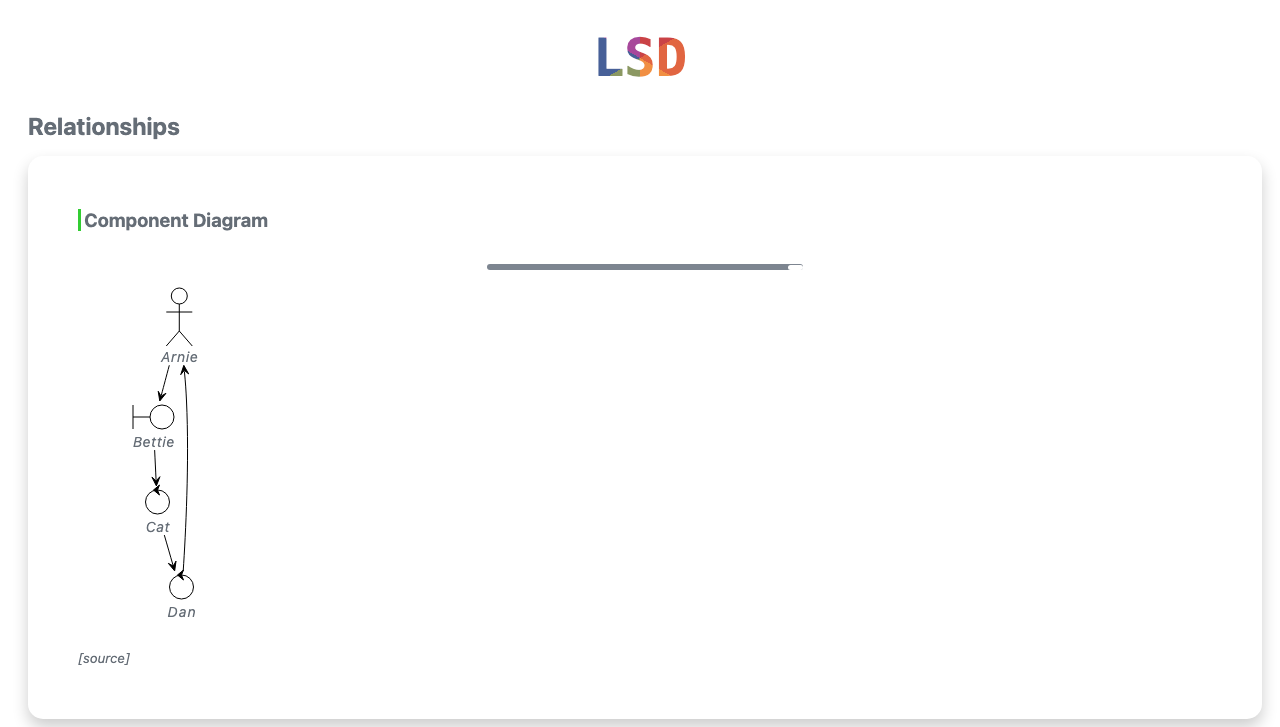
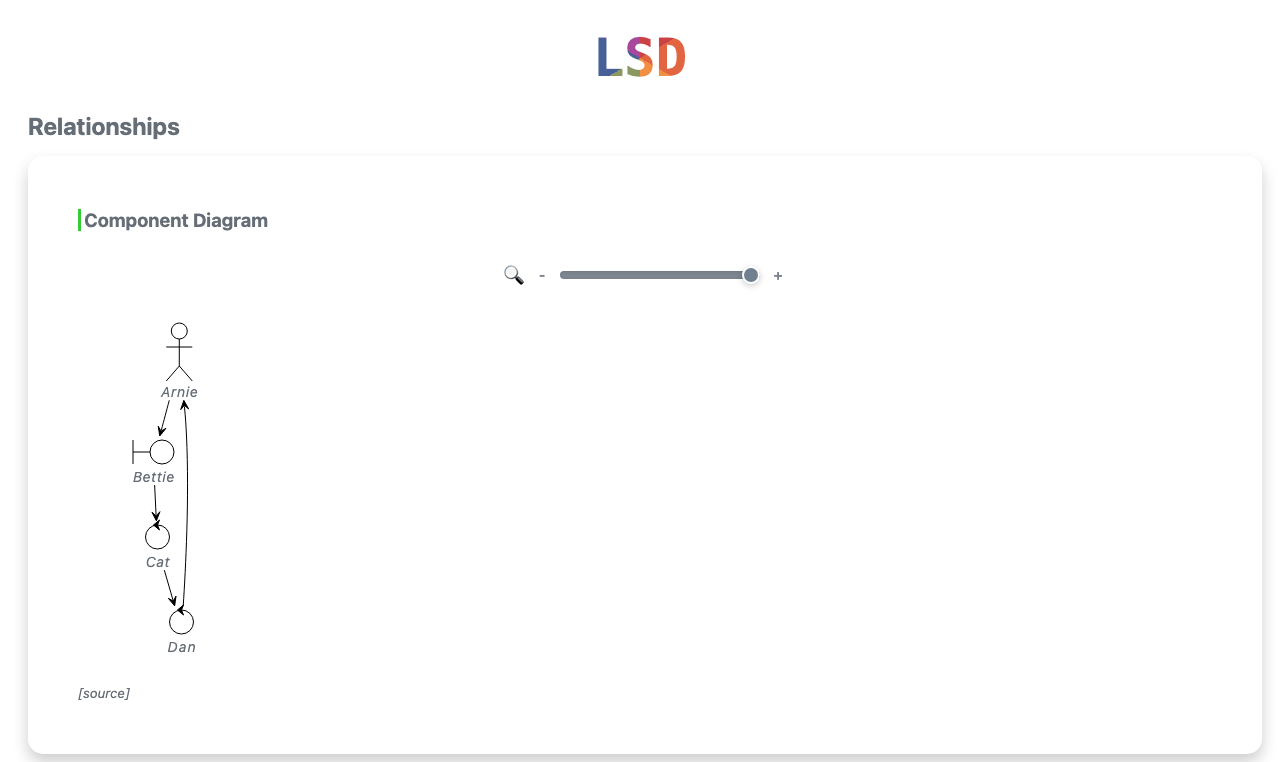
fix: tidy up zoom / slider bar

diff --git a/src/test/java/com/lsd/core/report/approval/LsdContextTest.createsReportWithScenariosInDevMode.approved.html b/src/test/java/com/lsd/core/report/approval/LsdContextTest.createsReportWithScenariosInDevMode.approved.html
@@ -435,39 +435,108 @@ label.index {
     background-color: #f1f1f1
 }
 
+/* Zoom control container */
+.zoom-control {
+    display: flex;
+    align-items: center;
+    justify-content: center;
+    gap: 10px;
+    margin-top: 20px;
+    margin-bottom: 10px;
+    margin-left: auto;
+    margin-right: auto;
+    padding: 10px 15px;
+    width: fit-content;
+}
+
+.zoom-label {
+    font-size: 16px;
+    color: var(--color-text-primary);
+    user-select: none;
+    line-height: 1;
+}
+
+.zoom-icon {
+    font-size: 14px;
+    font-weight: 600;
+    color: var(--color-4);
+    user-select: none;
+    font-style: normal;
+    width: 16px;
+    text-align: center;
+}
+
 /* Range slider */
 input[type="range"] {
-    display: block;
-    margin-bottom: 0;
-    margin-left: 35%;
-    margin-top: 30px;
-    height: 6px;
-    width: 30%;
+    margin: 0;
+    height: 8px;
+    width: 200px;
     background: var(--color-border);
     outline: none;
     -webkit-appearance: none;
     border-radius: 30px;
+    box-shadow: inset 0 1px 3px rgba(0, 0, 0, 0.1);
+    transition: all 0.2s ease;
+    cursor: pointer;
 }
 
 input[type="range"]:hover {
-    opacity: 1;
+    box-shadow: inset 0 1px 3px rgba(0, 0, 0, 0.15), 0 0 4px rgba(125, 133, 144, 0.3);
 }
 
 input[type="range"]::-webkit-slider-thumb {
     -webkit-appearance: none;
     appearance: none;
-    width: 15px;
-    height: 5px;
-    background: var(--color-background-primary);
-    cursor: pointer;
-    border-radius: 30px;
+    width: 18px;
+    height: 18px;
+    background: var(--color-3);
+    cursor: grab;
+    border-radius: 50%;
+    border: 2px solid var(--color-6);
+    box-shadow: 0 2px 6px rgba(0, 0, 0, 0.2);
+    transition: all 0.2s ease;
+}
+
+input[type="range"]::-webkit-slider-thumb:hover {
+    transform: scale(1.1);
+    box-shadow: 0 2px 8px rgba(0, 0, 0, 0.3);
+    background: var(--color-2);
+}
+
+input[type="range"]::-webkit-slider-thumb:active {
+    cursor: grabbing;
+    transform: scale(1.0);
+    box-shadow: 0 1px 4px rgba(0, 0, 0, 0.3);
 }
 
 input[type="range"]::-moz-range-thumb {
-    width: 15px;
-    height: 5px;
-    background: var(--color-background-primary);
-    cursor: pointer;
+    width: 18px;
+    height: 18px;
+    background: var(--color-3);
+    cursor: grab;
+    border-radius: 50%;
+    border: 2px solid var(--color-6);
+    box-shadow: 0 2px 6px rgba(0, 0, 0, 0.2);
+    transition: all 0.2s ease;
+}
+
+input[type="range"]::-moz-range-thumb:hover {
+    transform: scale(1.1);
+    box-shadow: 0 2px 8px rgba(0, 0, 0, 0.3);
+    background: var(--color-2);
+}
+
+input[type="range"]::-moz-range-thumb:active {
+    cursor: grabbing;
+    transform: scale(1.0);
+    box-shadow: 0 1px 4px rgba(0, 0, 0, 0.3);
+}
+
+input[type="range"]::-moz-range-track {
+    height: 8px;
+    background: var(--color-border);
+    border-radius: 30px;
+    box-shadow: inset 0 1px 3px rgba(0, 0, 0, 0.1);
 }
 
 /* Report footer */
@@ -1349,13 +1418,35 @@ function addSliderForSvgZoom() {
                     let originalWidth = viewBoxDimensions[2];
                     let originalHeight = viewBoxDimensions[3];
                     let i = ++index
-                    svgParent.insert('input', 'svg:nth-of-type(' + i + ')')
+                    
+                    // Create container for zoom controls
+                    let zoomContainer = svgParent.insert('div', 'svg:nth-of-type(' + i + ')')
+                        .attr("class", "zoom-control");
+                    
+                    // Add magnifying glass icon
+                    zoomContainer.append('span')
+                        .attr("class", "zoom-label")
+                        .html("&#128269;");
+                    
+                    // Add zoom out label (-)
+                    zoomContainer.append('span')
+                        .attr("class", "zoom-icon zoom-out")
+                        .text("-");
+                    
+                    // Add slider
+                    zoomContainer.append('input')
                         .attr("min", 0.0)
                         .attr("type", "range")
                         .attr("max", 1)
                         .attr("step", 0.01)
                         .attr("value", 1)
+                        .attr("title", "Zoom control")
                         .on("input", adjustSvgZoom(originalWidth, originalHeight, svg));
+                    
+                    // Add zoom in label (+)
+                    zoomContainer.append('span')
+                        .attr("class", "zoom-icon zoom-in")
+                        .text("+");
                 })
         });
 }

diff --git a/src/main/resources/static/style.css b/src/main/resources/static/style.css
@@ -430,39 +430,108 @@ label.index {
     background-color: #f1f1f1
 }
 
+/* Zoom control container */
+.zoom-control {
+    display: flex;
+    align-items: center;
+    justify-content: center;
+    gap: 10px;
+    margin-top: 20px;
+    margin-bottom: 10px;
+    margin-left: auto;
+    margin-right: auto;
+    padding: 10px 15px;
+    width: fit-content;
+}
+
+.zoom-label {
+    font-size: 16px;
+    color: var(--color-text-primary);
+    user-select: none;
+    line-height: 1;
+}
+
+.zoom-icon {
+    font-size: 14px;
+    font-weight: 600;
+    color: var(--color-4);
+    user-select: none;
+    font-style: normal;
+    width: 16px;
+    text-align: center;
+}
+
 /* Range slider */
 input[type="range"] {
-    display: block;
-    margin-bottom: 0;
-    margin-left: 35%;
-    margin-top: 30px;
-    height: 6px;
-    width: 30%;
+    margin: 0;
+    height: 8px;
+    width: 200px;
     background: var(--color-border);
     outline: none;
     -webkit-appearance: none;
     border-radius: 30px;
+    box-shadow: inset 0 1px 3px rgba(0, 0, 0, 0.1);
+    transition: all 0.2s ease;
+    cursor: pointer;
 }
 
 input[type="range"]:hover {
-    opacity: 1;
+    box-shadow: inset 0 1px 3px rgba(0, 0, 0, 0.15), 0 0 4px rgba(125, 133, 144, 0.3);
 }
 
 input[type="range"]::-webkit-slider-thumb {
     -webkit-appearance: none;
     appearance: none;
-    width: 15px;
-    height: 5px;
-    background: var(--color-background-primary);
-    cursor: pointer;
-    border-radius: 30px;
+    width: 18px;
+    height: 18px;
+    background: var(--color-3);
+    cursor: grab;
+    border-radius: 50%;
+    border: 2px solid var(--color-6);
+    box-shadow: 0 2px 6px rgba(0, 0, 0, 0.2);
+    transition: all 0.2s ease;
+}
+
+input[type="range"]::-webkit-slider-thumb:hover {
+    transform: scale(1.1);
+    box-shadow: 0 2px 8px rgba(0, 0, 0, 0.3);
+    background: var(--color-2);
+}
+
+input[type="range"]::-webkit-slider-thumb:active {
+    cursor: grabbing;
+    transform: scale(1.0);
+    box-shadow: 0 1px 4px rgba(0, 0, 0, 0.3);
 }
 
 input[type="range"]::-moz-range-thumb {
-    width: 15px;
-    height: 5px;
-    background: var(--color-background-primary);
-    cursor: pointer;
+    width: 18px;
+    height: 18px;
+    background: var(--color-3);
+    cursor: grab;
+    border-radius: 50%;
+    border: 2px solid var(--color-6);
+    box-shadow: 0 2px 6px rgba(0, 0, 0, 0.2);
+    transition: all 0.2s ease;
+}
+
+input[type="range"]::-moz-range-thumb:hover {
+    transform: scale(1.1);
+    box-shadow: 0 2px 8px rgba(0, 0, 0, 0.3);
+    background: var(--color-2);
+}
+
+input[type="range"]::-moz-range-thumb:active {
+    cursor: grabbing;
+    transform: scale(1.0);
+    box-shadow: 0 1px 4px rgba(0, 0, 0, 0.3);
+}
+
+input[type="range"]::-moz-range-track {
+    height: 8px;
+    background: var(--color-border);
+    border-radius: 30px;
+    box-shadow: inset 0 1px 3px rgba(0, 0, 0, 0.1);
 }
 
 /* Report footer */

diff --git a/src/main/resources/static/custom.js b/src/main/resources/static/custom.js
@@ -17,13 +17,35 @@ function addSliderForSvgZoom() {
                     let originalWidth = viewBoxDimensions[2];
                     let originalHeight = viewBoxDimensions[3];
                     let i = ++index
-                    svgParent.insert('input', 'svg:nth-of-type(' + i + ')')
+                    
+                    // Create container for zoom controls
+                    let zoomContainer = svgParent.insert('div', 'svg:nth-of-type(' + i + ')')
+                        .attr("class", "zoom-control");
+                    
+                    // Add magnifying glass icon
+                    zoomContainer.append('span')
+                        .attr("class", "zoom-label")
+                        .html("&#128269;");
+                    
+                    // Add zoom out label (-)
+                    zoomContainer.append('span')
+                        .attr("class", "zoom-icon zoom-out")
+                        .text("-");
+                    
+                    // Add slider
+                    zoomContainer.append('input')
                         .attr("min", 0.0)
                         .attr("type", "range")
                         .attr("max", 1)
                         .attr("step", 0.01)
                         .attr("value", 1)
+                        .attr("title", "Zoom control")
                         .on("input", adjustSvgZoom(originalWidth, originalHeight, svg));
+                    
+                    // Add zoom in label (+)
+                    zoomContainer.append('span')
+                        .attr("class", "zoom-icon zoom-in")
+                        .text("+");
                 })
         });
 }
